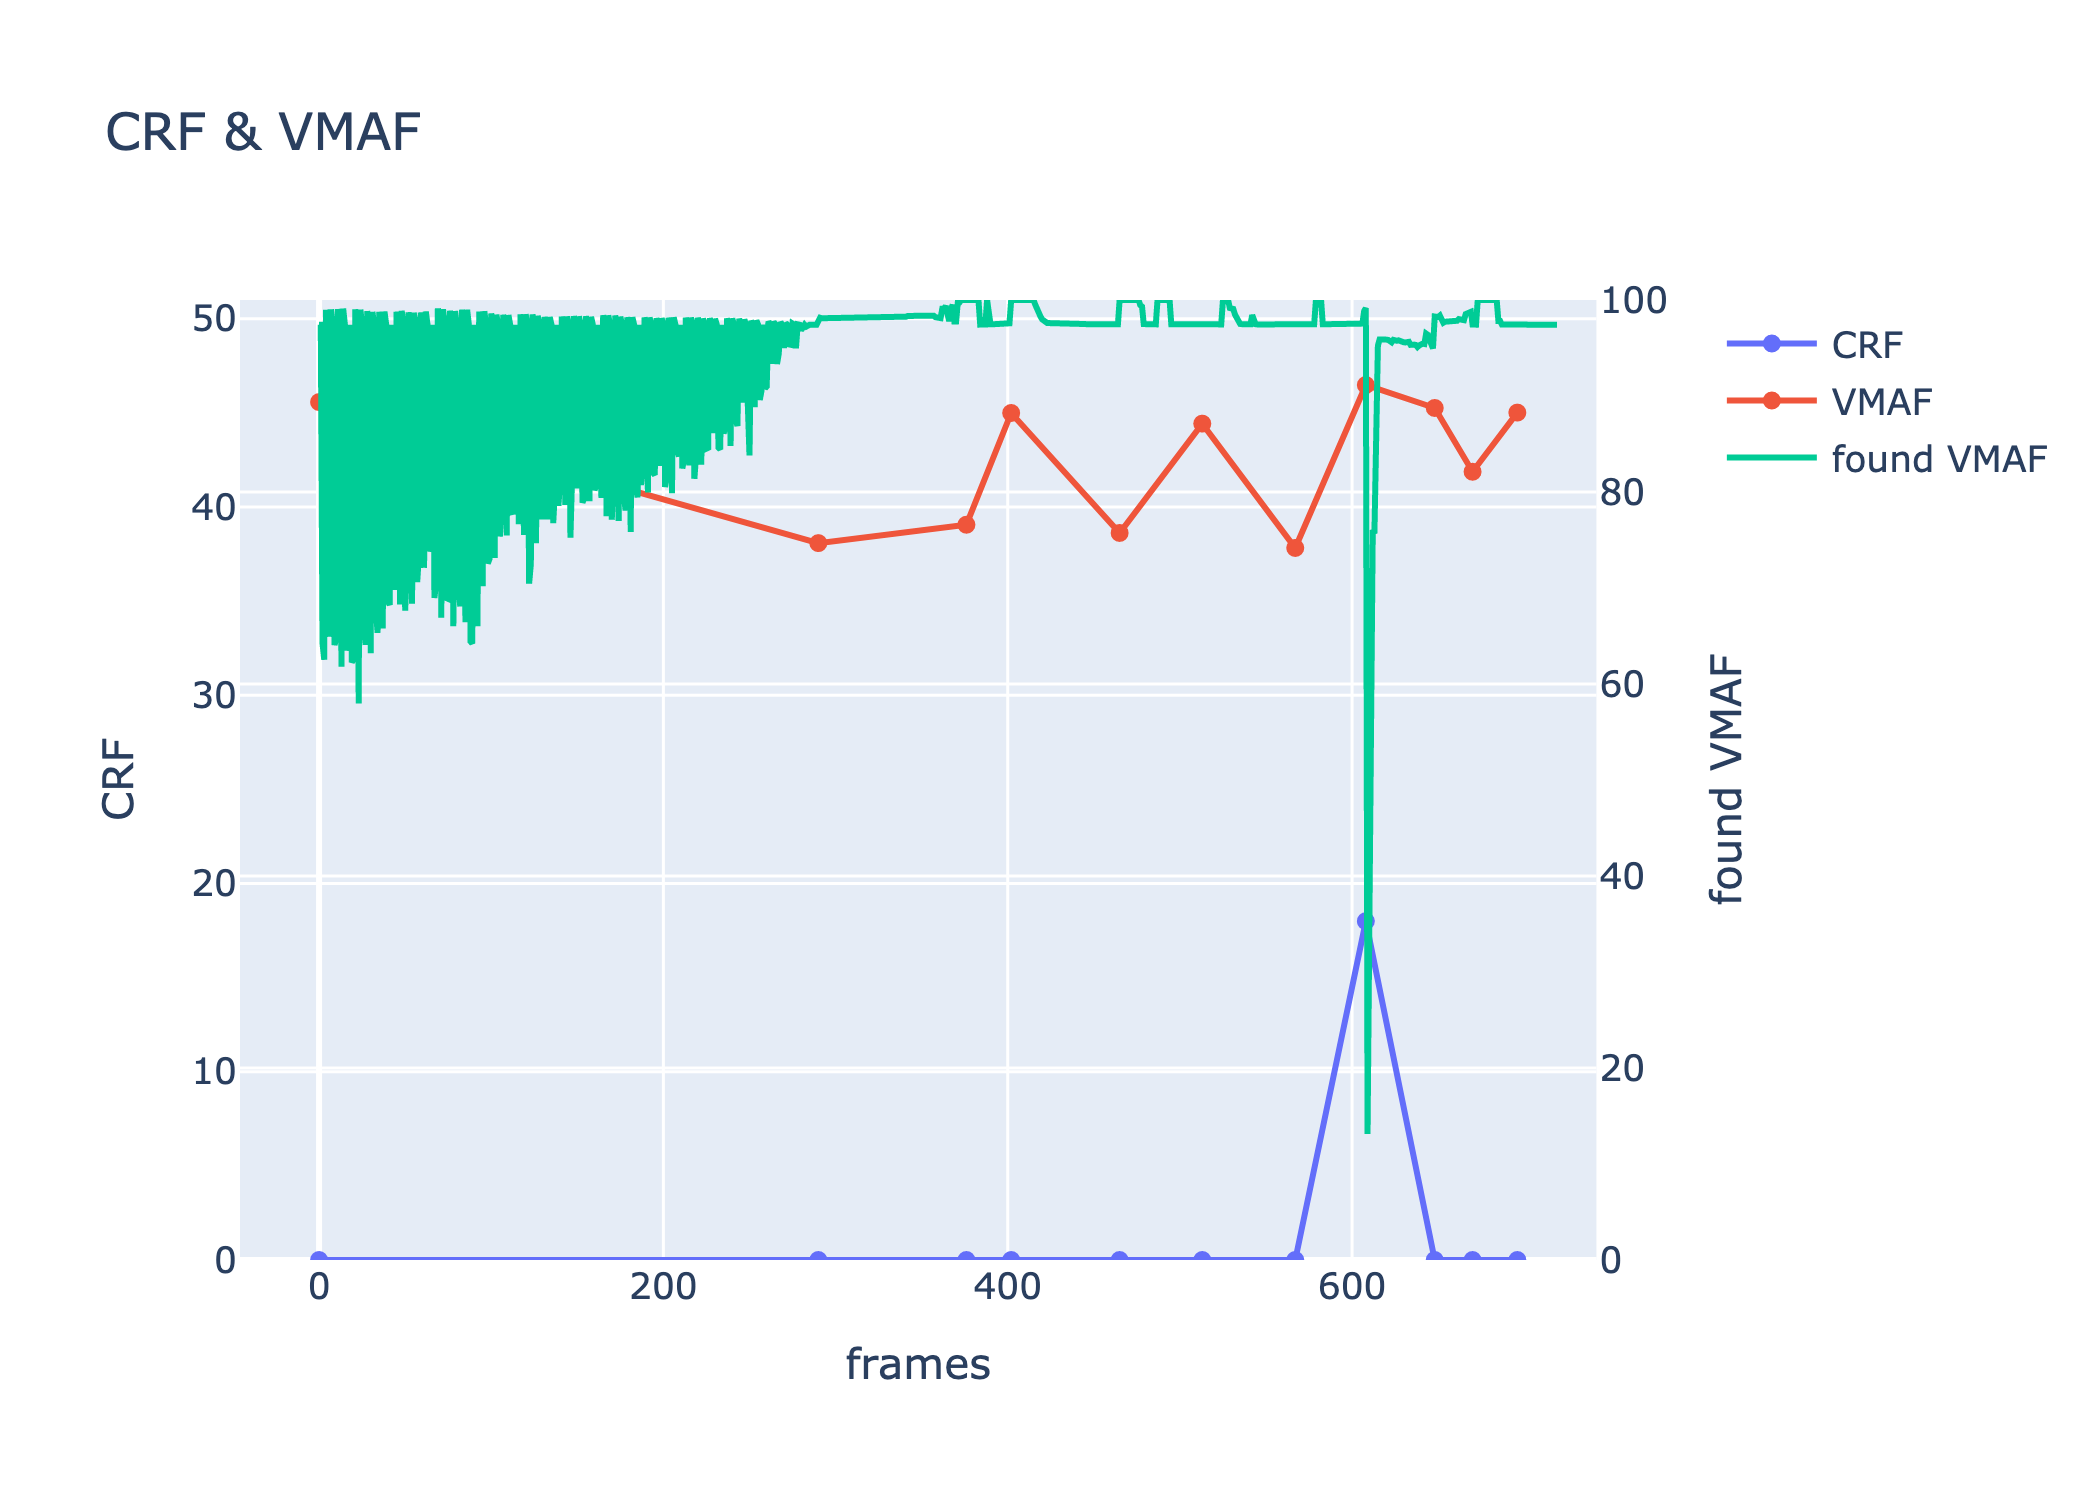
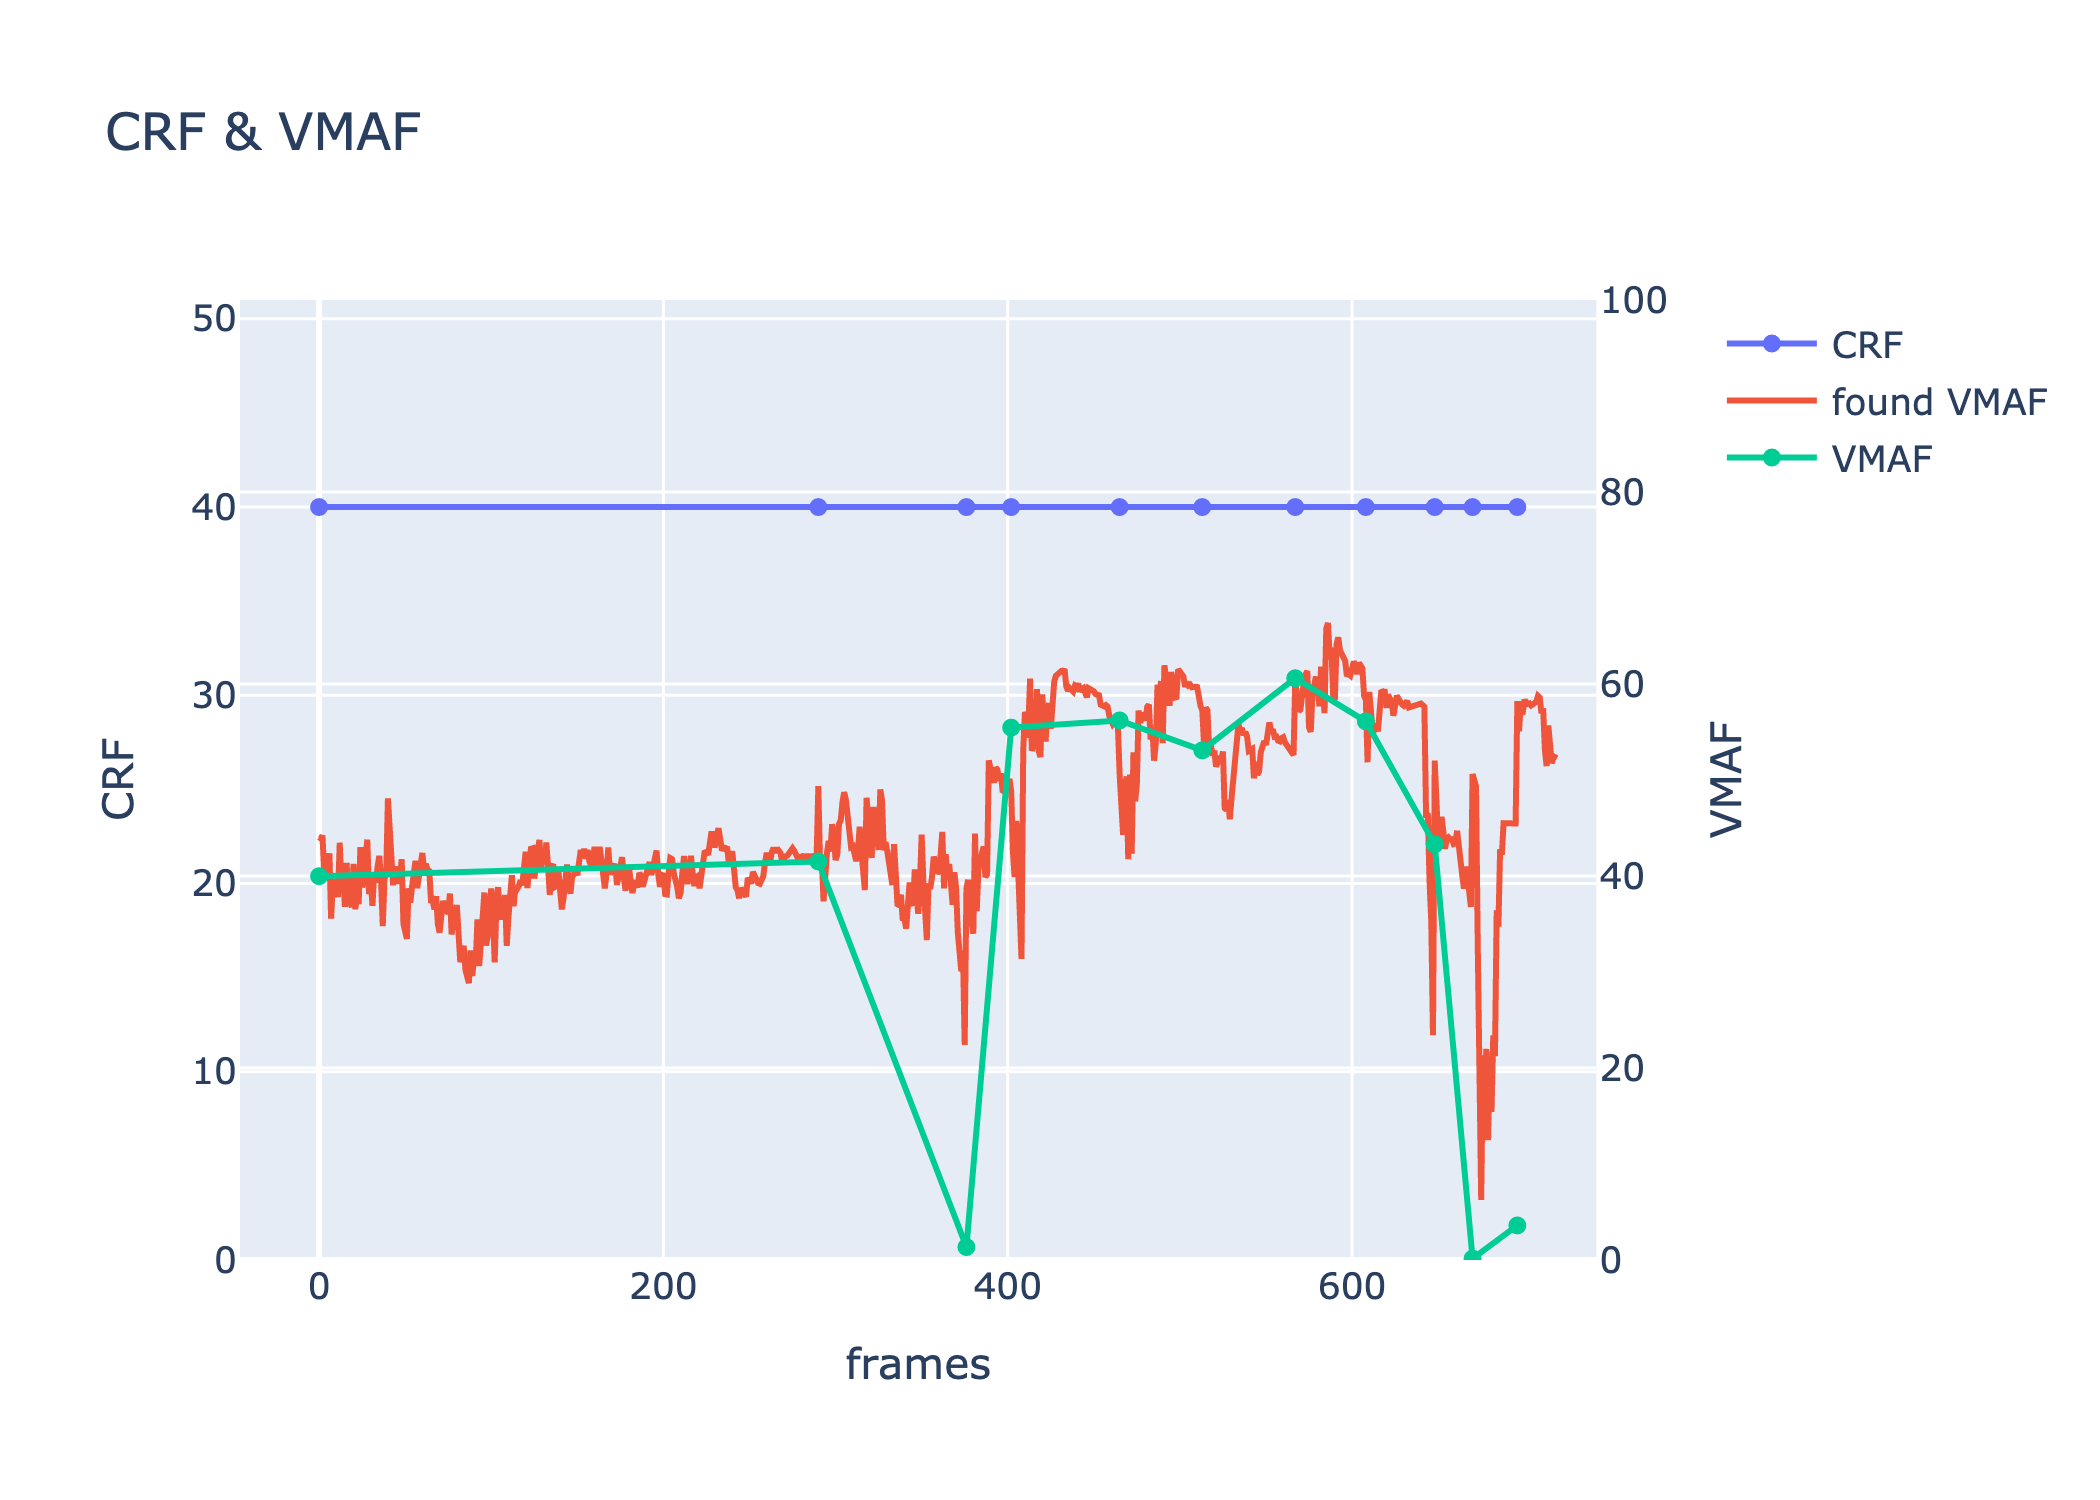
progress - close

diff --git a/src/v2-target-videoCRF-minimal.py b/src/v2-target-videoCRF-minimal.py
@@ -20,6 +20,7 @@ def compressing_video(
     codec: ffmpeg.video,
     heuristic: ffmpeg_heuristics.heuristic,
     scene_detection_threshold: int = 27,
+    multithreading_threads: int = 2,
 ) -> None:
     video_scenes = scene_detection.find_scenes(
         full_input_filename, scene_detection_threshold
@@ -36,7 +37,7 @@ def compressing_video(
     #     for i, video_section in progress.track(list(enumerate(video_scenes))):
     def compress_video_section_call(
         section: int, video_section: scene_detection.SceneData
-    ) -> tuple[int, float]:
+    ) -> tuple[int, int, int, float]:
         optimal_crf, heuristic_reached = _compress_video_section(
             full_input_filename,
             input_filename_data,
@@ -46,12 +47,21 @@ def compressing_video(
             video_section.start_frame,
             video_section.end_frame,
         )
-        return optimal_crf, heuristic_reached
+        return section, video_section.start_frame, optimal_crf, heuristic_reached
 
-    for i, video_section in enumerate(video_scenes):
-        optimal_crf_list.append(
-            (video_section.start_frame, *compress_video_section_call(i, video_section))
+    # for i, video_section in enumerate(video_scenes):
+    #     optimal_crf_list.append(
+    #         (video_section.start_frame, *compress_video_section_call(i, video_section))
+    #     )
+
+    with concurrent.futures.ThreadPoolExecutor(multithreading_threads) as executor:
+        results = list(
+            executor.map(
+                compress_video_section_call, range(len(video_scenes)), video_scenes
+            )
         )
+        results = sorted(results)
+        optimal_crf_list = [x[1:] for x in results]
 
     ffmpeg.concatenate_video_files(
         [_temporary_file_names(x) for x in range(len(video_scenes))],
@@ -71,6 +81,23 @@ def compressing_video(
             y_axis_range=codec.ACCEPTED_CRF_RANGE,
         )
         graph_instance.add_linegraph(
+            x_data=list(range(input_filename_data.total_frames)),
+            y_data=heuristic.throughout_video(
+                full_input_filename,
+                full_output_filename,
+                "ffmpeg",
+                subsample=1,
+                # "TEMP-0.mkv",
+                # full_output_filename,
+                # "ffmpeg",
+                # subsample=1,
+            ),
+            name=f"found {heuristic.NAME}",
+            mode="lines",
+            on_left_right_side="right",
+            y_axis_range=heuristic.RANGE,
+        )
+        graph_instance.add_linegraph(
             x_data=[x[0] for x in optimal_crf_list],
             y_data=[x[2] for x in optimal_crf_list],
             name=heuristic.NAME,
@@ -78,19 +105,12 @@ def compressing_video(
             on_left_right_side="right",
             y_axis_range=heuristic.RANGE,
         )
-        graph_instance.add_linegraph(
-            x_data=list(range(input_filename_data.total_frames)),
-            y_data=heuristic.throughout_video(
-                full_input_filename, full_output_filename, "ffmpeg", subsample=1
-            ),
-            name=f"found {heuristic.NAME}",
-            mode="lines",
-            on_left_right_side="right",
-            y_axis_range=heuristic.RANGE,
-        )
 
-    for x in range(len(video_scenes)):
-        os.remove(_temporary_file_names(x))
+    # for x in range(len(video_scenes)):
+    #     os.remove(_temporary_file_names(x))
+
+    print(ffmpeg.get_video_metadata("ffprobe", full_input_filename))
+    print(ffmpeg.get_video_metadata("ffprobe", full_output_filename))
 
 
 def _temporary_file_names(position: int) -> str:
@@ -117,15 +137,19 @@ def _compress_video_section(
         "yuv420p",
         300,
     ) as video_command:
-        bottom_crf_value = min(codec.ACCEPTED_CRF_RANGE)
-        top_crf_value = max(codec.ACCEPTED_CRF_RANGE)
+        # bottom_crf_value = min(codec.ACCEPTED_CRF_RANGE)
+        # top_crf_value = max(codec.ACCEPTED_CRF_RANGE)
 
         all_heuristic_crf_values: dict[int, float] = {}
 
-        while (
-            current_crf := (top_crf_value + bottom_crf_value) // 2
-        ) not in all_heuristic_crf_values.keys():
-            video_command.run_ffmpeg_command(current_crf)
+        temp_first_done = False
+        # while (
+        #     current_crf := (top_crf_value + bottom_crf_value) // 2
+        # ) not in all_heuristic_crf_values.keys():
+        while not temp_first_done:
+            temp_first_done = True
+            # video_command.run_ffmpeg_command(current_crf)
+            video_command.run_ffmpeg_command(40)
 
             current_heuristic = heuristic.summary_of_overall_video(
                 full_input_filename,
@@ -136,14 +160,15 @@ def _compress_video_section(
 
             print(current_heuristic)
 
-            if round(current_heuristic) == heuristic.target_score:
-                break
-            elif current_heuristic > heuristic.target_score:
-                bottom_crf_value = current_crf
-            elif current_heuristic < heuristic.target_score:
-                top_crf_value = current_crf
+            # if round(current_heuristic) == heuristic.target_score:
+            #     break
+            # elif current_heuristic > heuristic.target_score:
+            #     bottom_crf_value = current_crf
+            # elif current_heuristic < heuristic.target_score:
+            #     top_crf_value = current_crf
 
-            all_heuristic_crf_values.update({current_crf: current_heuristic})
+            # all_heuristic_crf_values.update({current_crf: current_heuristic})
+            all_heuristic_crf_values.update({40: current_heuristic})
 
         closest_value = min(
             (abs(x[1] - heuristic.target_score), x)
@@ -154,5 +179,9 @@ def _compress_video_section(
 
 
 compressing_video(
-    "small-trim.mp4", "temp.mkv", ffmpeg.H264(), ffmpeg_heuristics.VMAF(90)
+    "small-trim.mp4",
+    "temp.mkv",
+    ffmpeg.H264(),
+    ffmpeg_heuristics.VMAF(90),
+    scene_detection_threshold=27,
 )

diff --git a/src/ffmpeg_heuristics.py b/src/ffmpeg_heuristics.py
@@ -50,13 +50,13 @@ class VMAF:
         if encode_start_end_frame is not None:
             ffmpeg_command.extend(["-ss", str(encode_start_end_frame[0] / frame_rate)])
             ffmpeg_command.extend(["-to", str(encode_start_end_frame[1] / frame_rate)])
-        # ffmpeg_command.extend(["-r", str(frame_rate)])
+        ffmpeg_command.extend(["-r", str(frame_rate)])  # important to include
         ffmpeg_command.extend(["-i", encoded_video_path])
 
         if source_start_end_frame is not None:
             ffmpeg_command.extend(["-ss", str(source_start_end_frame[0] / frame_rate)])
             ffmpeg_command.extend(["-to", str(source_start_end_frame[1] / frame_rate)])
-        # ffmpeg_command.extend(["-r", str(frame_rate)])
+        ffmpeg_command.extend(["-r", str(frame_rate)])
         ffmpeg_command.extend(["-i", source_video_path])
 
         # https://www.bannerbear.com/blog/how-to-trim-a-video-using-ffmpeg/#:~:text=You%20can%20trim%20the%20input%20video%20to%20a%20specific%20duration,the%20beginning%20of%20the%20video.&text=In%20the%20command%20above%2C%20%2Dvf,the%20duration%20to%203%20seconds.
@@ -116,13 +116,13 @@ class VMAF:
         if encode_start_end_frame is not None:
             ffmpeg_command.extend(["-ss", str(encode_start_end_frame[0] / frame_rate)])
             ffmpeg_command.extend(["-to", str(encode_start_end_frame[1] / frame_rate)])
-        # ffmpeg_command.extend(["-r", str(frame_rate)])
+        ffmpeg_command.extend(["-r", str(frame_rate)])
         ffmpeg_command.extend(["-i", encoded_video_path])
 
         if source_start_end_frame is not None:
             ffmpeg_command.extend(["-ss", str(source_start_end_frame[0] / frame_rate)])
             ffmpeg_command.extend(["-to", str(source_start_end_frame[1] / frame_rate)])
-        # ffmpeg_command.extend(["-r", str(frame_rate)])
+        ffmpeg_command.extend(["-r", str(frame_rate)])
         ffmpeg_command.extend(["-i", source_video_path])
 
         ffmpeg_command.extend(

diff --git a/src/ffmpeg.py b/src/ffmpeg.py
@@ -216,8 +216,8 @@ def concatenate_video_files(
     # _ = os.system(
     #     f'ffmpeg -f concat -safe 0 -i video_list.txt -c copy -y "{output_filename_with_extension}"'  # -hide_banner -loglevel error
     # )
-    _ = subprocess.run(
-        f'{ffmpeg_path} -f concat -safe 0 -i video_list.txt -c copy -y "{output_filename_with_extension}"',
+    _ = subprocess.run(  # -safe 0
+        f'{ffmpeg_path} -f concat -i video_list.txt -c copy -y "{output_filename_with_extension}"',
         shell=True,
         check=True,
     )
